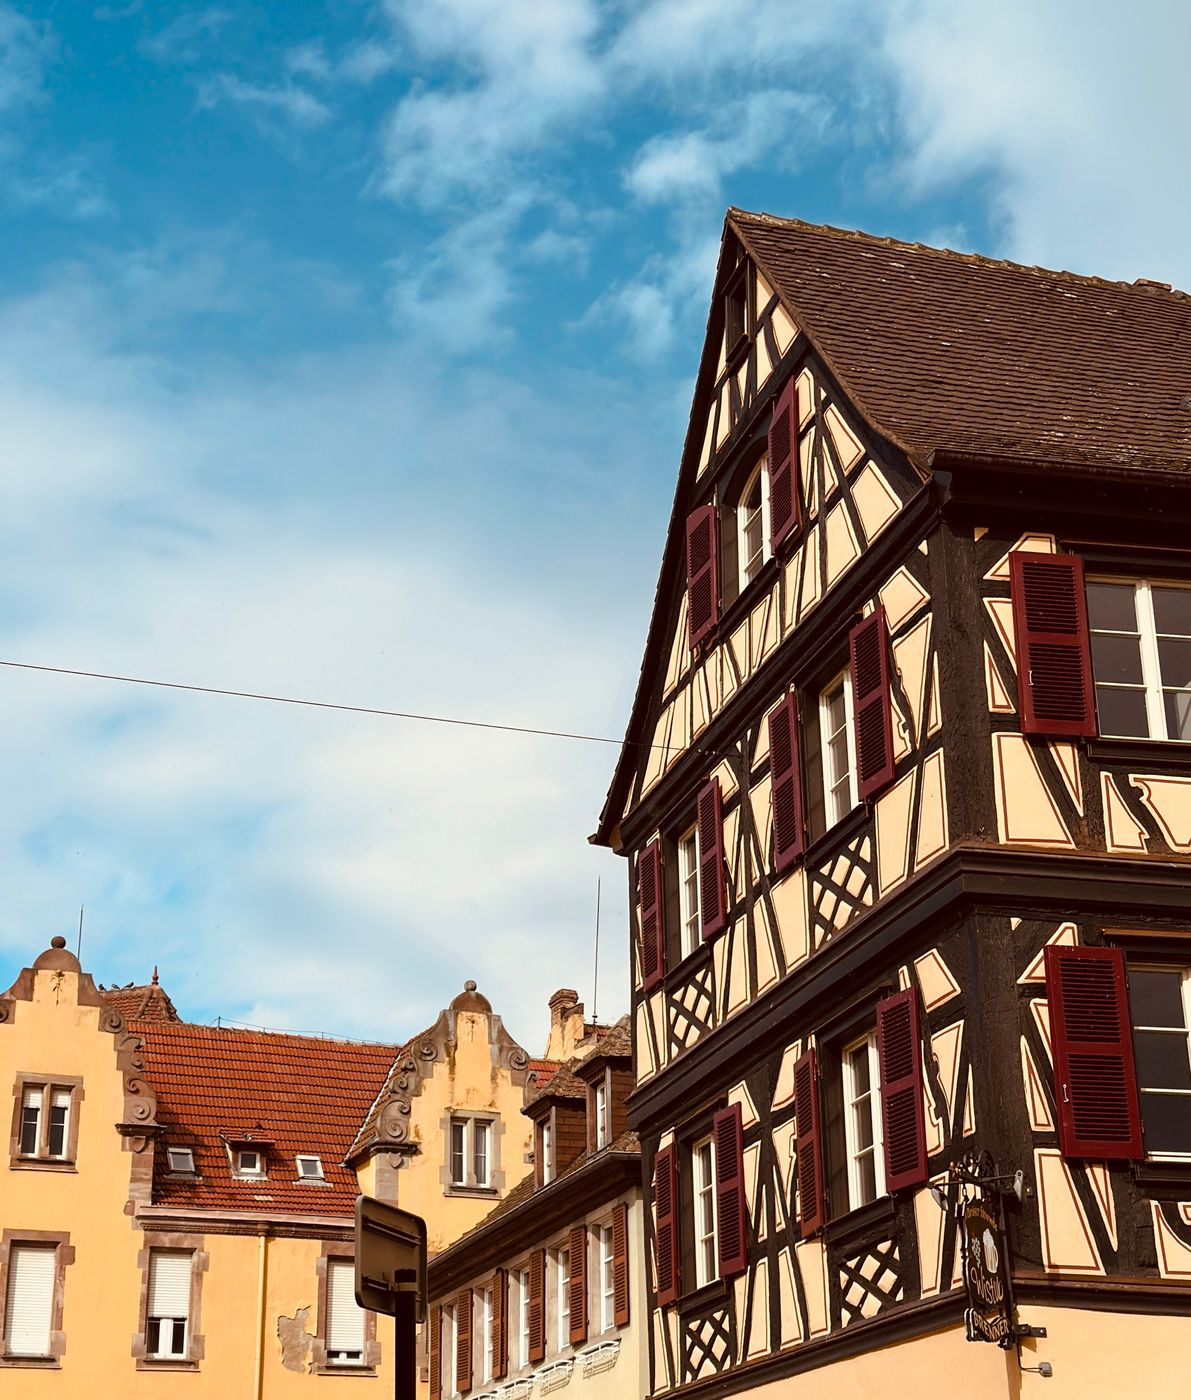
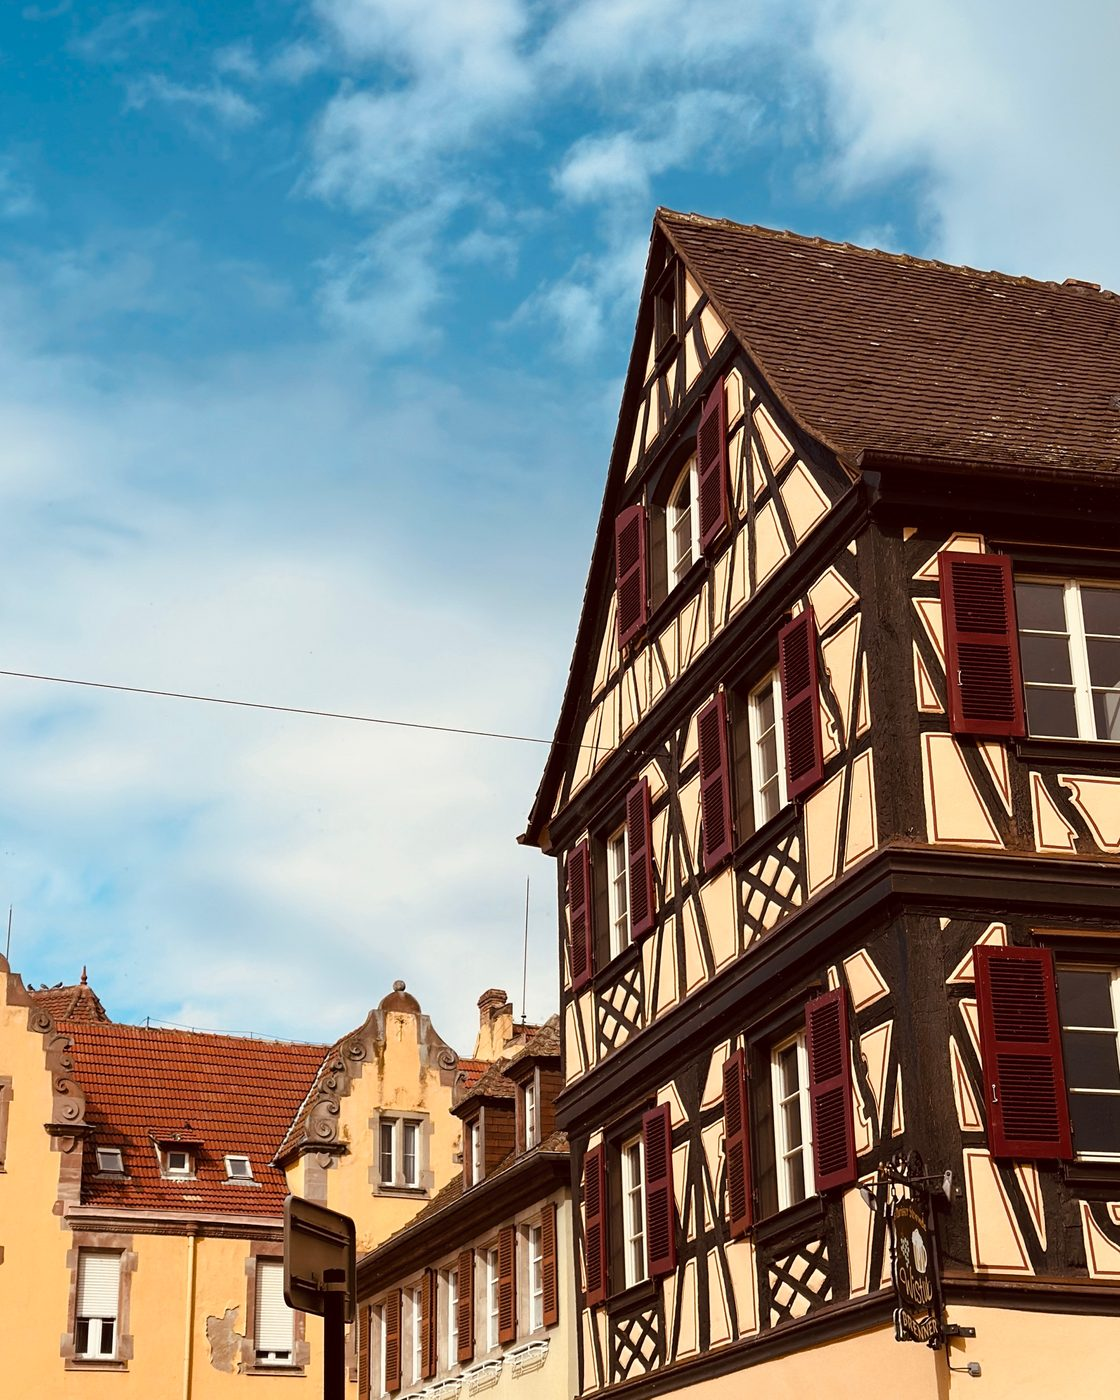
Routes: re-crop photos for composition and consistent proportions
23 of 26 route photos re-cropped: portraits to 4:5 and landscapes to
3:2; horizons and subjects moved onto the thirds; edge distractions
trimmed (a figure at the frame edge, flat sky, tarmac). Cropped from the
full-size originals where available; the two photos with blurred faces
are cropped from their blurred versions, and the Strasbourg street now
crops above the crowd. Three stay as they were, where any crop would cut
the subject. All saved without metadata; tile covers unchanged.

diff --git a/routes/heidelberg-amsterdam/index.html b/routes/heidelberg-amsterdam/index.html
@@ -25,12 +25,12 @@
 
 <h2>Photos</h2>
 <div class="photos">
-  <a href="photo-1.jpg"><img src="photo-1.jpg" alt="Canal lined with moored boats and trees, pink flowers in the foreground" width="1050" height="1400" loading="lazy"></a>
-  <a href="photo-3.jpg"><img src="photo-3.jpg" alt="A gull gliding over tiled rooftops and church spires" width="1049" height="1400" loading="lazy"></a>
-  <a href="photo-4.jpg"><img src="photo-4.jpg" alt="Bronze sculpture of two boys helping each other climb a brick wall beside a path" width="1050" height="1400" loading="lazy"></a>
-  <a href="photo-5.jpg"><img src="photo-5.jpg" alt="The bike propped up on the grass at a campsite, tents behind it" width="1050" height="1400" loading="lazy"></a>
-  <a href="photo-6.jpg"><img src="photo-6.jpg" alt="The Rhine with vineyards on steep hillsides and a small riverside town" width="1400" height="1050" loading="lazy"></a>
-  <a href="photo-7.jpg"><img src="photo-7.jpg" alt="A red cycle path across a long bridge, a wind turbine and fields beyond" width="1050" height="1400" loading="lazy"></a>
+  <a href="photo-1.jpg"><img src="photo-1.jpg" alt="Canal lined with moored boats and trees, pink flowers in the foreground" width="1120" height="1400" loading="lazy"></a>
+  <a href="photo-3.jpg"><img src="photo-3.jpg" alt="A gull gliding over tiled rooftops and church spires" width="1119" height="1400" loading="lazy"></a>
+  <a href="photo-4.jpg"><img src="photo-4.jpg" alt="Bronze sculpture of two boys helping each other climb a brick wall beside a path" width="1120" height="1400" loading="lazy"></a>
+  <a href="photo-5.jpg"><img src="photo-5.jpg" alt="The bike propped up on the grass at a campsite, tents behind it" width="1120" height="1400" loading="lazy"></a>
+  <a href="photo-6.jpg"><img src="photo-6.jpg" alt="The Rhine with vineyards on steep hillsides and a small riverside town" width="1400" height="933" loading="lazy"></a>
+  <a href="photo-7.jpg"><img src="photo-7.jpg" alt="A red cycle path across a long bridge, a wind turbine and fields beyond" width="1120" height="1400" loading="lazy"></a>
 </div>
 
 </body>

diff --git a/routes/mam-tor/index.html b/routes/mam-tor/index.html
@@ -25,9 +25,9 @@
 
 <h2>Photos</h2>
 <div class="photos">
-  <a href="photo-1.jpg"><img src="photo-1.jpg" alt="A flagstone path along a grassy ridge under low cloud, the valley below on both sides" width="1349" height="1400" loading="lazy"></a>
-  <a href="photo-2.jpg"><img src="photo-2.jpg" alt="Stone steps leading up a grassy hill towards the summit in mist" width="1179" height="1400" loading="lazy"></a>
-  <a href="photo-3.jpg"><img src="photo-3.jpg" alt="A sheep lying in a field, looking at the camera" width="1050" height="1400" loading="lazy"></a>
+  <a href="photo-1.jpg"><img src="photo-1.jpg" alt="A flagstone path along a grassy ridge under low cloud, the valley below on both sides" width="1121" height="1400" loading="lazy"></a>
+  <a href="photo-2.jpg"><img src="photo-2.jpg" alt="Stone steps leading up a grassy hill towards the summit in mist" width="1121" height="1400" loading="lazy"></a>
+  <a href="photo-3.jpg"><img src="photo-3.jpg" alt="A sheep lying in a field, looking at the camera" width="1120" height="1400" loading="lazy"></a>
   <a href="photo-4.jpg"><img src="photo-4.jpg" alt="A purple cat-like sculpture with folded arms, standing on a stack of suitcases in a railway station" width="1050" height="1400" loading="lazy"></a>
 </div>
 

diff --git a/routes/saarbacherhammer/index.html b/routes/saarbacherhammer/index.html
@@ -25,9 +25,9 @@
 
 <h2>Photos</h2>
 <div class="photos">
-  <a href="photo-1.jpg"><img src="photo-1.jpg" alt="A no-entry sign marked Sauf cyclistes beside the street sign Rue des Bouchers" width="1050" height="1400" loading="lazy"></a>
-  <a href="photo-2.jpg"><img src="photo-2.jpg" alt="A red sandstone church with a tall spire under heavy clouds in Wissembourg (faces and a number plate blurred)" width="1050" height="1400" loading="lazy"></a>
-  <a href="photo-3.jpg"><img src="photo-3.jpg" alt="Loaded touring bikes and a folding chair in the shade of a tree by a field" width="1050" height="1400" loading="lazy"></a>
+  <a href="photo-1.jpg"><img src="photo-1.jpg" alt="A no-entry sign marked Sauf cyclistes beside the street sign Rue des Bouchers" width="1120" height="1400" loading="lazy"></a>
+  <a href="photo-2.jpg"><img src="photo-2.jpg" alt="A red sandstone church with a tall spire under heavy clouds in Wissembourg (faces and a number plate blurred)" width="1050" height="1312" loading="lazy"></a>
+  <a href="photo-3.jpg"><img src="photo-3.jpg" alt="Loaded touring bikes and a folding chair in the shade of a tree by a field" width="1116" height="1396" loading="lazy"></a>
 </div>
 
 </body>

diff --git a/routes/malvern-hills/index.html b/routes/malvern-hills/index.html
@@ -25,9 +25,9 @@
 
 <h2>Photos</h2>
 <div class="photos">
-  <a href="photo-1.jpg"><img src="photo-1.jpg" alt="A ridge rising out of a sea of fog, with people silhouetted on the top" width="1148" height="1400" loading="lazy"></a>
-  <a href="photo-2.jpg"><img src="photo-2.jpg" alt="The sun above a sea of fog, seen from a grassy hilltop beside a path" width="1289" height="1400" loading="lazy"></a>
-  <a href="photo-3.jpg"><img src="photo-3.jpg" alt="Black-and-white photo of a walker looking out over fog, a hilltop just showing in the distance" width="1400" height="962" loading="lazy"></a>
+  <a href="photo-1.jpg"><img src="photo-1.jpg" alt="A ridge rising out of a sea of fog, with people silhouetted on the top" width="1120" height="1400" loading="lazy"></a>
+  <a href="photo-2.jpg"><img src="photo-2.jpg" alt="The sun above a sea of fog, seen from a grassy hilltop beside a path" width="1120" height="1400" loading="lazy"></a>
+  <a href="photo-3.jpg"><img src="photo-3.jpg" alt="Black-and-white photo of a walker looking out over fog, a hilltop just showing in the distance" width="1400" height="933" loading="lazy"></a>
 </div>
 
 </body>

diff --git a/routes/heidelberg-strasbourg/index.html b/routes/heidelberg-strasbourg/index.html
@@ -26,8 +26,8 @@
 <h2>Photos</h2>
 <div class="photos">
   <a href="photo-1.jpg"><img src="photo-1.jpg" alt="A shuttered window and a street lamp at dusk, beside the street sign Rue de la Monnaie, Muenzgass" width="1226" height="1400" loading="lazy"></a>
-  <a href="photo-2.jpg"><img src="photo-2.jpg" alt="A half-timbered house with dark red shutters against a blue sky" width="1191" height="1400" loading="lazy"></a>
-  <a href="photo-3.jpg"><img src="photo-3.jpg" alt="A phone held up against a sunset over a gravel path, showing a painting of a similar sky" width="1400" height="1050" loading="lazy"></a>
+  <a href="photo-2.jpg"><img src="photo-2.jpg" alt="A half-timbered house with dark red shutters against a blue sky" width="1120" height="1400" loading="lazy"></a>
+  <a href="photo-3.jpg"><img src="photo-3.jpg" alt="A phone held up against a sunset over a gravel path, showing a painting of a similar sky" width="1400" height="933" loading="lazy"></a>
 </div>
 
 </body>

diff --git a/routes/worms/index.html b/routes/worms/index.html
@@ -25,9 +25,9 @@
 
 <h2>Photos</h2>
 <div class="photos">
-  <a href="photo-1.jpg"><img src="photo-1.jpg" alt="Stubble fields under a blue sky with small clouds, hills on the horizon" width="1050" height="1400" loading="lazy"></a>
+  <a href="photo-1.jpg"><img src="photo-1.jpg" alt="Stubble fields under a blue sky with small clouds, hills on the horizon" width="1120" height="1400" loading="lazy"></a>
   <a href="photo-2.jpg"><img src="photo-2.jpg" alt="A baroque sandstone church tower in Worms, with a plaque quoting Martin Luther in front" width="797" height="1400" loading="lazy"></a>
-  <a href="photo-3.jpg"><img src="photo-3.jpg" alt="A town hall clock tower with an astronomical clock and zodiac signs" width="1050" height="1400" loading="lazy"></a>
+  <a href="photo-3.jpg"><img src="photo-3.jpg" alt="A town hall clock tower with an astronomical clock and zodiac signs" width="1120" height="1400" loading="lazy"></a>
 </div>
 
 </body>

diff --git a/routes/neckar/index.html b/routes/neckar/index.html
@@ -25,8 +25,8 @@
 
 <h2>Photos</h2>
 <div class="photos">
-  <a href="photo-1.jpg"><img src="photo-1.jpg" alt="A steep lane with a 22% gradient sign and the street name Rombachweg, wooded hills beyond" width="1050" height="1400" loading="lazy"></a>
-  <a href="photo-2.jpg"><img src="photo-2.jpg" alt="An angler on the riverbank, clouds reflected in the still Neckar" width="1024" height="1255" loading="lazy"></a>
+  <a href="photo-1.jpg"><img src="photo-1.jpg" alt="A steep lane with a 22% gradient sign and the street name Rombachweg, wooded hills beyond" width="1120" height="1400" loading="lazy"></a>
+  <a href="photo-2.jpg"><img src="photo-2.jpg" alt="An angler on the riverbank, clouds reflected in the still Neckar" width="1004" height="1255" loading="lazy"></a>
 </div>
 
 </body>

diff --git a/routes/koblenz-mainz/index.html b/routes/koblenz-mainz/index.html
@@ -25,7 +25,7 @@
 
 <h2>Photos</h2>
 <div class="photos">
-  <a href="photo-1.jpg"><img src="photo-1.jpg" alt="An old harbour crane by the Rhine in Bingen with two figure sculptures on its jib, vineyards across the river" width="1086" height="1400" loading="lazy"></a>
+  <a href="photo-1.jpg"><img src="photo-1.jpg" alt="An old harbour crane by the Rhine in Bingen with two figure sculptures on its jib, vineyards across the river" width="1120" height="1400" loading="lazy"></a>
 </div>
 
 </body>

diff --git a/routes/trip-to-france/index.html b/routes/trip-to-france/index.html
@@ -25,7 +25,7 @@
 
 <h2>Photos</h2>
 <div class="photos">
-  <a href="photo-1.jpg"><img src="photo-1.jpg" alt="A busy old-town street in Strasbourg, ivy covering the houses and market stalls below (faces blurred)" width="1125" height="1500" loading="lazy"></a>
+  <a href="photo-1.jpg"><img src="photo-1.jpg" alt="An old-town street in Strasbourg, ivy covering the houses, market awnings below" width="880" height="1100" loading="lazy"></a>
 </div>
 
 </body>
